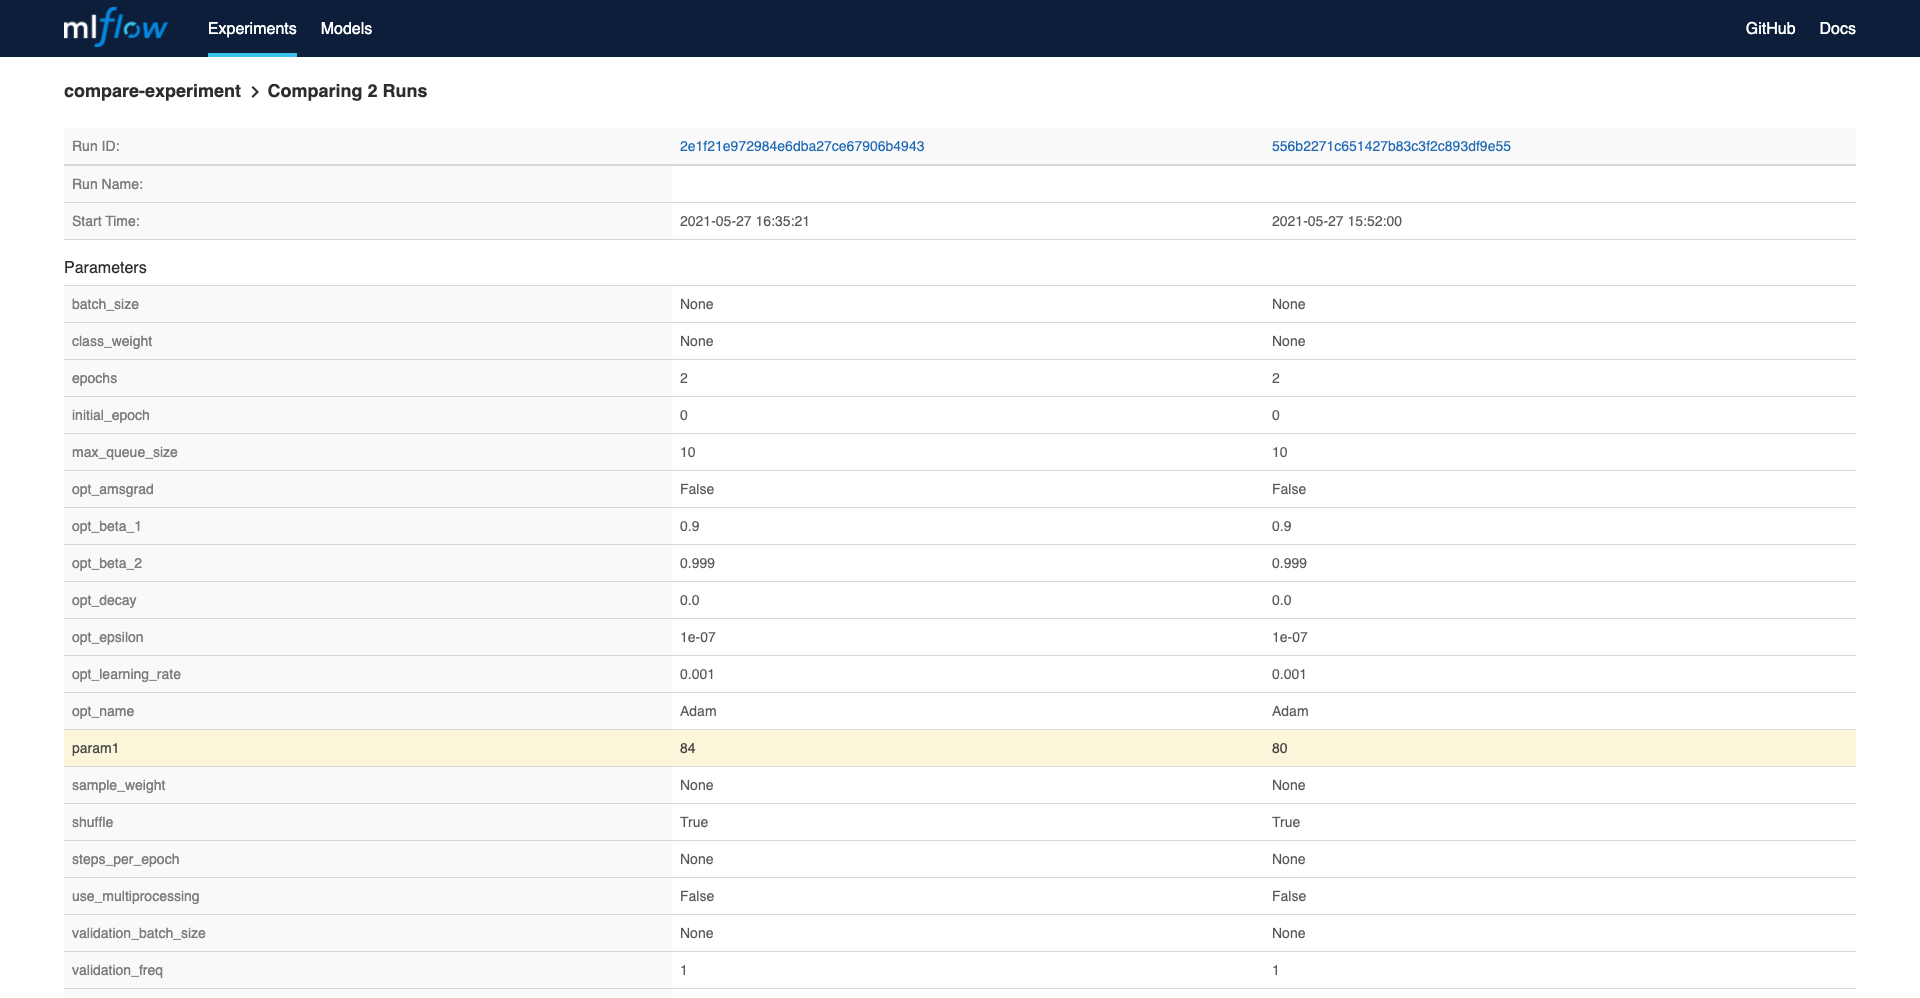
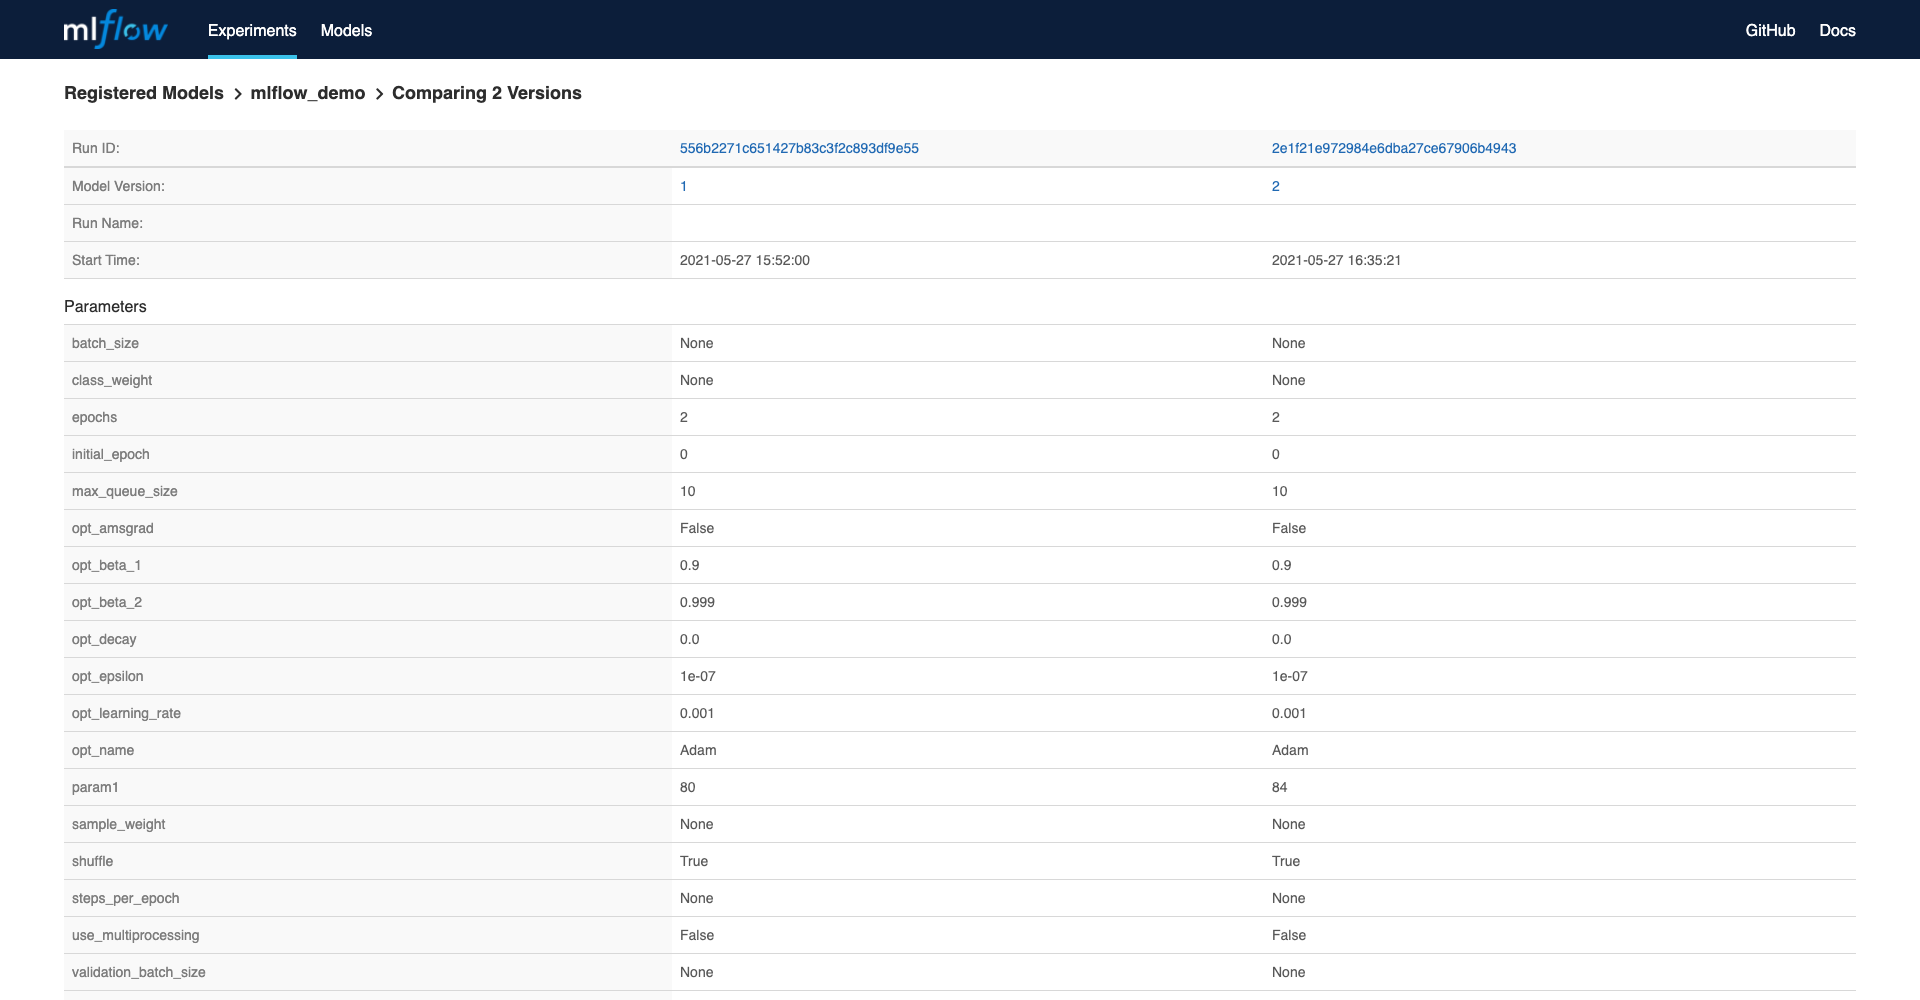
Add comparing MLflow models instead of runs

diff --git a/docs/tasks/mlflow-compare.md b/docs/tasks/mlflow-compare.md
@@ -42,33 +42,45 @@ In this tutorial, we will show how to record parameters, metrics, and artifacts 
    
 4. Replace `TRACKING_URI` in the notebook to the service endpoint of your MLflow server.
 
-5. **Run All Cells** in the notebook, you will see a new run in `compare-experiment` in the MLflow UI.
+5. **Run All Cells** in the notebook, you will see a new run in `compare-experiment` in the MLflow UI. Click on the `Start Time` to view details.
   
     ![](assets/task_mlflow_compare_run.png)
 
-6. In the notebook, edit it to log parameters, metrics, and artifacts.
+6. Scroll down to the artifects and click on the model folder to register model.
+  
+    ![](assets/task_mlflow_register_model.png)
+
+7. In the `Models` page, you can see a new register model.
+  
+    ![](assets/task_mlflow_view_model.png)
+
+8. In the notebook, edit it to log parameters, metrics, and artifacts.
    
     ![](assets/mlflow_log.png)
 
-7. Set the API token.
+9. Set the API token.
 
     ![](assets/task_mlflow_set_api_token.png)   
 
-8. Submit notebook as job.
+10. Submit notebook as job.
    
     ![](assets/task_mlflow_submit_job.png)
 
-9. You can see the job status in PrimeHub `Jobs`.
+11. You can see the job status in PrimeHub `Jobs`.
 
     ![](assets/task_mlflow_running_job.png)
 
-10. After job done, a notebook is added, which is the result.
+12. After job done, a notebook is added, which is the result.
 
     ![](assets/task_mlflow_job_done.png)
 
-11. You will see two runs in compare-experiment in the MLflow UI and you can compare them.
+13. Register the new run with the same model name. In the `Models` page, the latest version is `Version 2`.
   
-    ![](assets/task_mlflow_compare_result.png)
+    ![](assets/task_mlflow_model_version.png)
+
+14. Click on the model name, you can see and compare those versions.
+
+    ![](assets/task_mlflow_model_result.png)
     
     ![](assets/task_mlflow_compare_detail.png)
 
